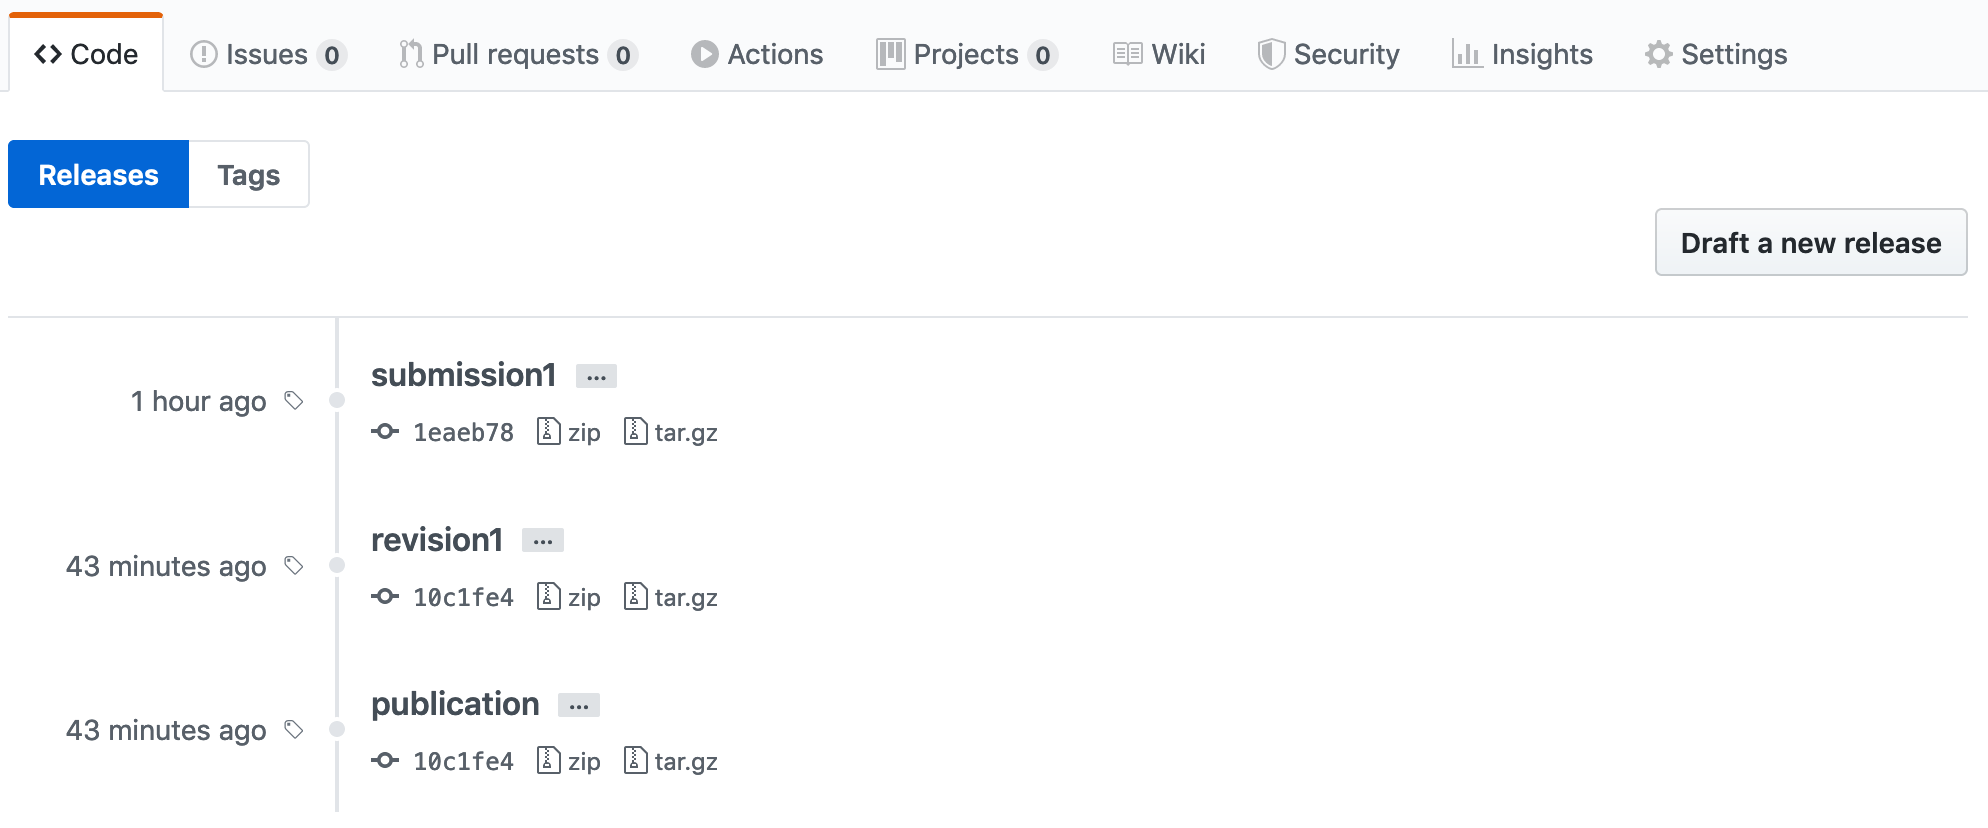
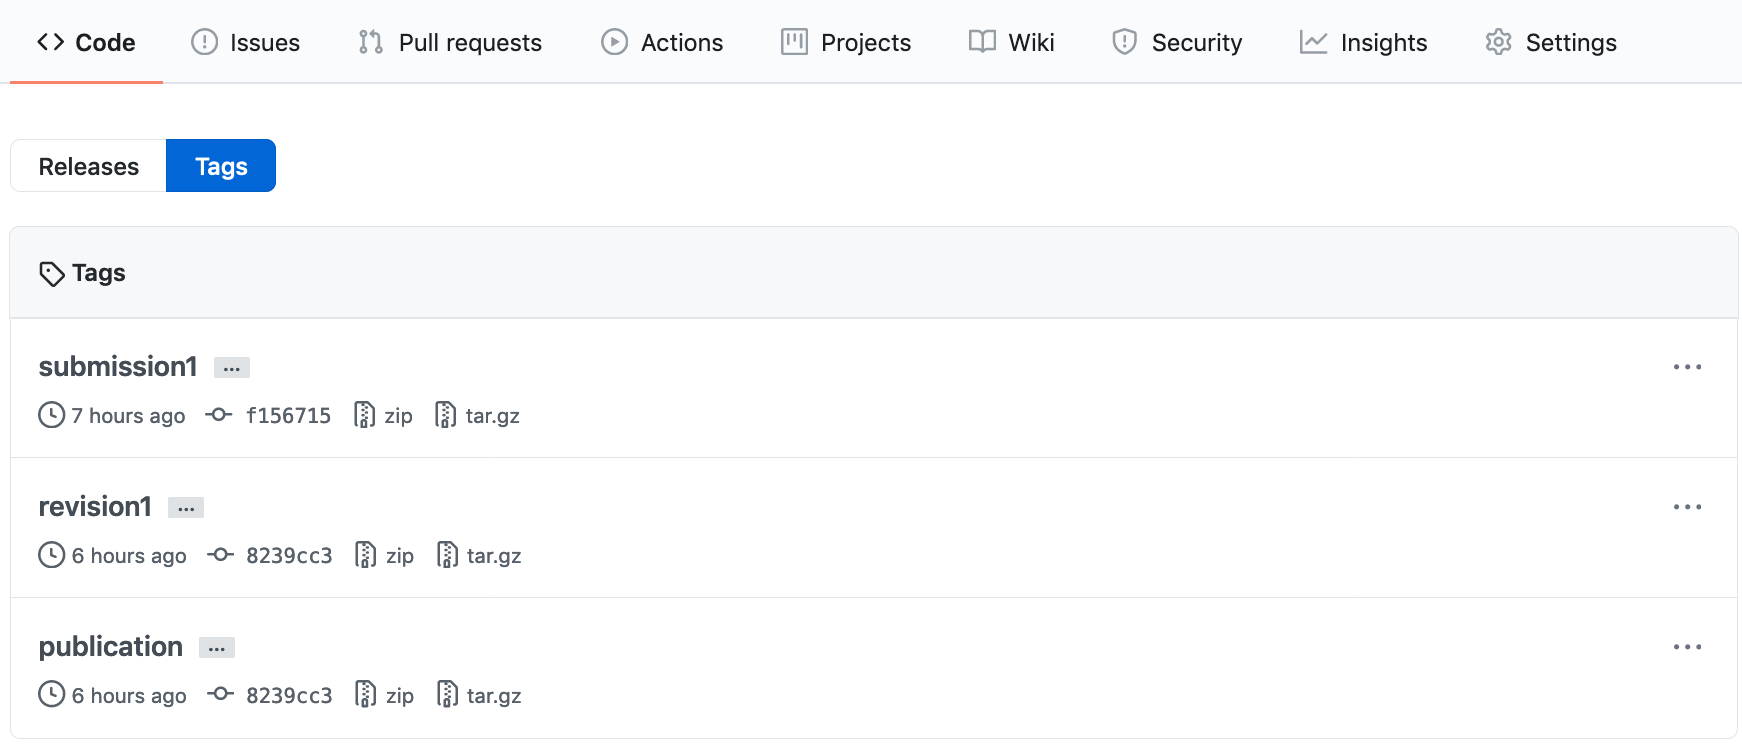
Update remote tag figure with new GitHub layout

diff --git a/docs/git.md b/docs/git.md
@@ -957,18 +957,15 @@ git push --tags
 ```
 
 * Go to the repository overview page on GitHub. You will see that the repository
-  now has one release! This is because GitHub releases are based on Git tags.
-  Click where it says *3 releases*. This will give you an overview of the
-  existing releases for your repository. If you click *Tags* you will see more
-  or less the same information. Confusing? Well, a *tag* is a git concept while
-  a *Release* is a GitHub concept that is based on git tags. Releases add some
-  extra features that can be useful for distributing software.
+  now has three tags! If you click on *Tags* you will be given an overview of
+  the existing tags for your repository - if you click *Releases* you will see
+  more or less the same information. Confusing? Well, a *tag* is a git concept
+  while a *release* is a GitHub concept that is based on git tags. Releases add
+  some extra features that can be useful for distributing software and are done
+  manually from the repository's GitHub page.
 
-![](images/github_tags_number.png)
-
-* Go to GitHub and then either the Releases or Tags tab. Here users can download
-  a compressed file containing the repository at the versions specified by the
-  tags.
+* Click on one of the tags. Here users can download a compressed file
+  containing the repository at the version specified by the tags.
 
 ![](images/github_tags_list.png)
 
